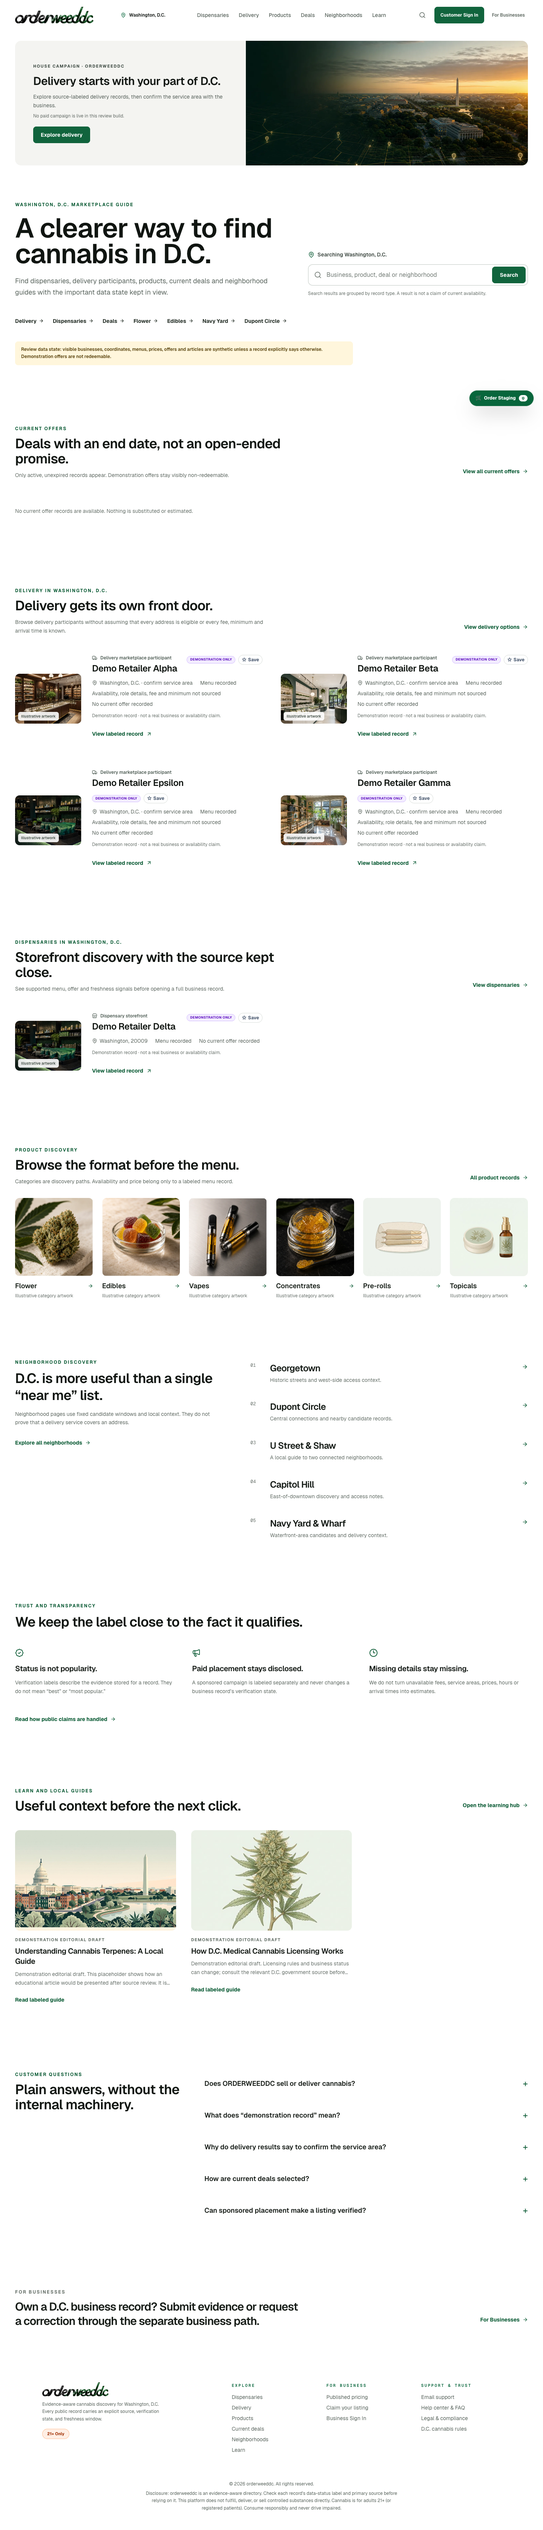
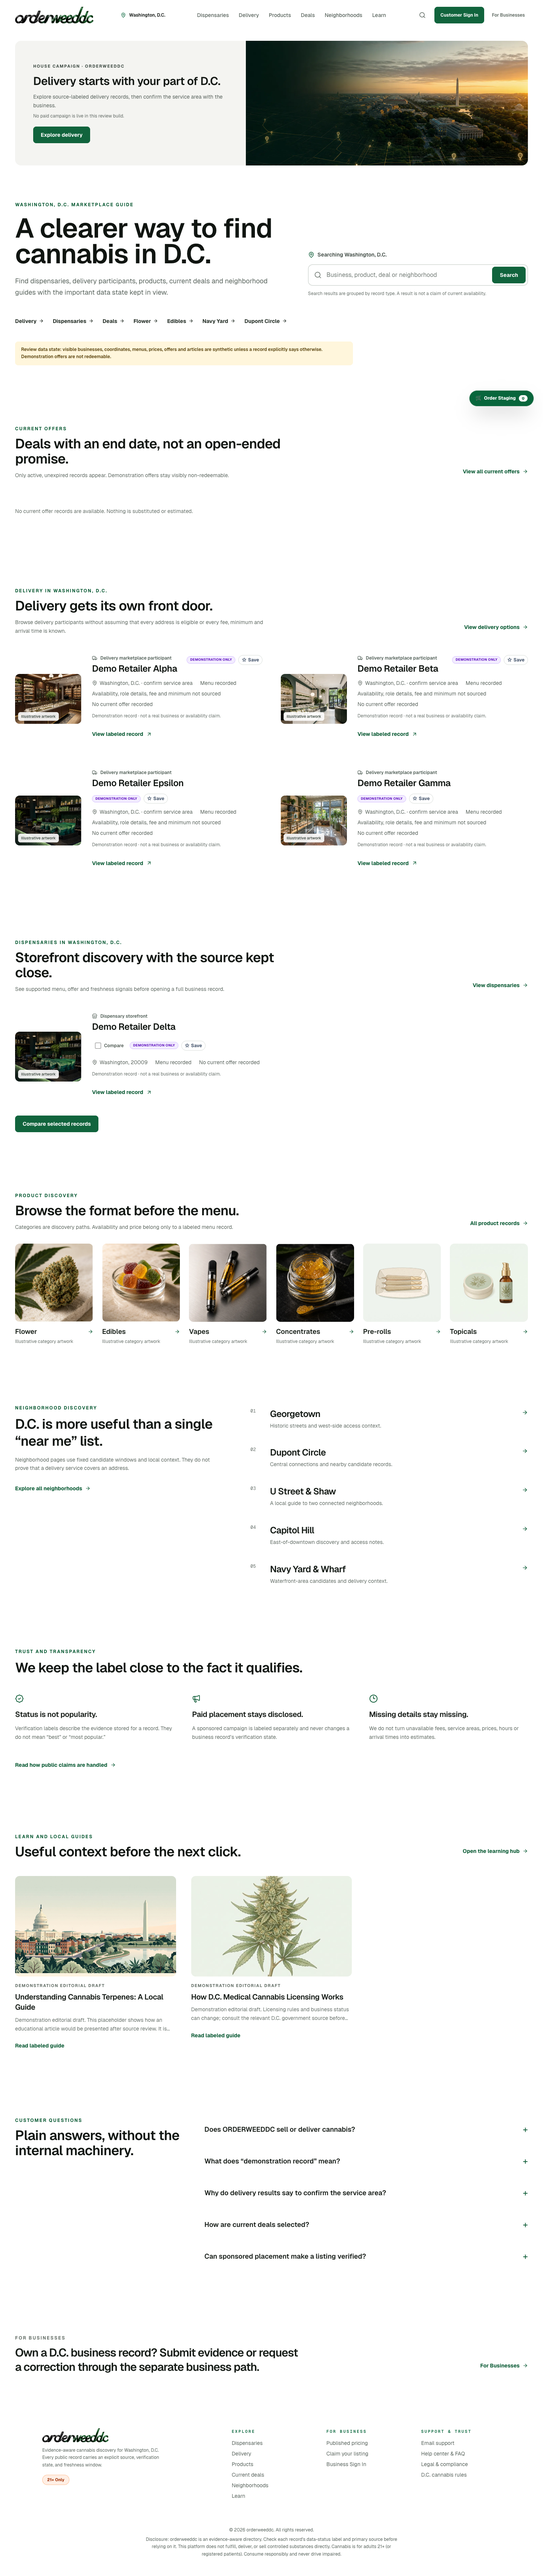
fix(web): preserve customer comparison journey
Restore bounded homepage retailer comparison, keep preview query limits centralized at the moved data seam, extend browser coverage, and refresh owner screenshots.

diff --git a/apps/web/src/lib/customer-marketplace-data.ts b/apps/web/src/lib/customer-marketplace-data.ts
@@ -1,6 +1,7 @@
 import { prisma } from '@/lib/prisma';
 import { currentDealWhere } from '@/lib/directory-search.mjs';
 import { NEIGHBORHOOD_CONFIGS } from '@/lib/neighborhood-configs.mjs';
+import { PUBLIC_DEAL_PREVIEW_LIMIT } from '@/lib/retailer-detail-search.mjs';
 
 const QUERY_LIMIT = 80;
 
@@ -62,7 +63,7 @@ export async function loadCustomerDirectory({
       deals: {
         where: currentDealWhere(asOf),
         select: { id: true },
-        take: 3,
+        take: PUBLIC_DEAL_PREVIEW_LIMIT,
       },
       menus: {
         where: { brandMenus: { some: { brandId: brand.id } } },
@@ -91,7 +92,7 @@ export async function loadCustomerHome(domain: string) {
     prisma.retailer.findMany({
       where: { ...scope, type: 'delivery' },
       include: {
-        deals: { where: currentDealWhere(asOf), select: { id: true }, take: 3 },
+        deals: { where: currentDealWhere(asOf), select: { id: true }, take: PUBLIC_DEAL_PREVIEW_LIMIT },
         menus: { where: { brandMenus: { some: { brandId: brand.id } } }, select: { id: true }, take: 1 },
       },
       orderBy: [{ isDemonstration: 'asc' }, { dataStatus: 'asc' }, { name: 'asc' }],
@@ -100,7 +101,7 @@ export async function loadCustomerHome(domain: string) {
     prisma.retailer.findMany({
       where: { ...scope, type: 'storefront' },
       include: {
-        deals: { where: currentDealWhere(asOf), select: { id: true }, take: 3 },
+        deals: { where: currentDealWhere(asOf), select: { id: true }, take: PUBLIC_DEAL_PREVIEW_LIMIT },
         menus: { where: { brandMenus: { some: { brandId: brand.id } } }, select: { id: true }, take: 1 },
       },
       orderBy: [{ isDemonstration: 'asc' }, { dataStatus: 'asc' }, { name: 'asc' }],

diff --git a/apps/web/src/components/customer-home-market.tsx b/apps/web/src/components/customer-home-market.tsx
@@ -102,9 +102,28 @@ export default function CustomerHomeMarket({
           href="/dispensaries"
           action="View dispensaries"
         />
-        <div className="mt-8 grid gap-x-12 gap-y-8 xl:grid-cols-2">
-          {dispensaries.length ? dispensaries.map((item, index) => <CustomerListingRow key={item.id} listing={item} index={index + 2} />) : <p className="py-10 text-sm text-[#667069]">No dispensary records are available in this data state.</p>}
-        </div>
+        {dispensaries.length ? (
+          <form action="/compare" method="get" className="mt-8">
+            <div className="grid gap-x-12 gap-y-8 xl:grid-cols-2">
+              {dispensaries.map((item, index) => (
+                <CustomerListingRow
+                  key={item.id}
+                  listing={item}
+                  index={index + 2}
+                  comparisonSelectable
+                />
+              ))}
+            </div>
+            <button
+              type="submit"
+              className="mt-5 min-h-11 rounded-lg bg-[#11643d] px-5 py-3 text-sm font-bold text-white hover:bg-[#0c4f30]"
+            >
+              Compare selected records
+            </button>
+          </form>
+        ) : (
+          <p className="mt-8 py-10 text-sm text-[#667069]">No dispensary records are available in this data state.</p>
+        )}
       </section>
     </>
   );

diff --git a/apps/web/src/components/customer-listing-row.tsx b/apps/web/src/components/customer-listing-row.tsx
@@ -30,9 +30,11 @@ const ILLUSTRATIONS = [
 export default function CustomerListingRow({
   listing,
   index,
+  comparisonSelectable = false,
 }: {
   listing: CustomerListing;
   index: number;
+  comparisonSelectable?: boolean;
 }) {
   const delivery = listing.type === 'delivery';
   const freshness = relativeFreshnessLabel({
@@ -69,6 +71,17 @@ export default function CustomerListingRow({
             </h3>
           </div>
           <div className="flex items-center gap-2">
+            {comparisonSelectable && (
+              <label className="inline-flex min-h-11 cursor-pointer items-center gap-2 rounded-lg px-2 text-xs font-semibold text-[#4d5951]">
+                <input
+                  type="checkbox"
+                  name="retailer"
+                  value={listing.id}
+                  className="h-4 w-4 accent-[#11643d]"
+                />
+                Compare
+              </label>
+            )}
             <DataStatusBadge
               dataStatus={listing.dataStatus}
               isDemonstration={listing.isDemonstration}

diff --git a/docs/customer-side-sovereign-ui/REVIEW_EVIDENCE.md b/docs/customer-side-sovereign-ui/REVIEW_EVIDENCE.md
@@ -430,7 +430,7 @@ identity, rewrite production JSX, or bypass review gates.
 | Production build | PASS | Next.js 16.3.0-canary.6 compiled, type-checked and emitted all customer routes |
 | Browser route/visual matrix | PASS | Executable test: `apps/web/tests/customer-sovereign-ui.browser.mjs`; desktop 1440px and mobile 390px; homepage, delivery, dispensaries and search; no console warning/error, no unexpected request failure, no horizontal overflow |
 | WCAG A/AA audit | PASS | Axe serious/critical violations: 0 across four routes at 1440px and 390px; age-gate focus and wrap behavior passed |
-| Slower-mobile performance | PASS | 150ms latency, 1.6 Mbps down, 4x CPU: LCP 3500ms, CLS 0.00199, third-party scripts 0 |
+| Slower-mobile performance | PASS | 150ms latency, 1.6 Mbps down, 4x CPU: LCP 3520ms, CLS 0.00199, third-party scripts 0 |
 | Full repository web test script | BASELINE BLOCKED | 663 tests discovered: 582 passed, 81 failed; the dominant root is the pre-existing macOS Prisma `Schema engine error`, with additional suite-global build/server contention and an environment-only pilot-package path; customer UI gates did not fail |
 | Dependency audit | KNOWN BASELINE | 1 high-severity transitive development dependency finding in `brace-expansion`; no forced dependency rewrite was made in this UI branch |
 
